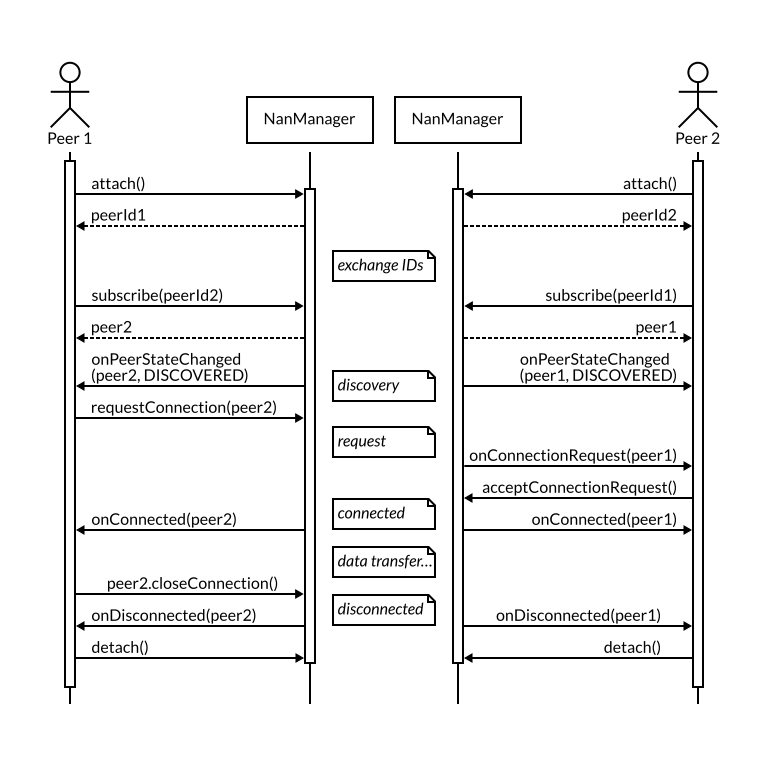
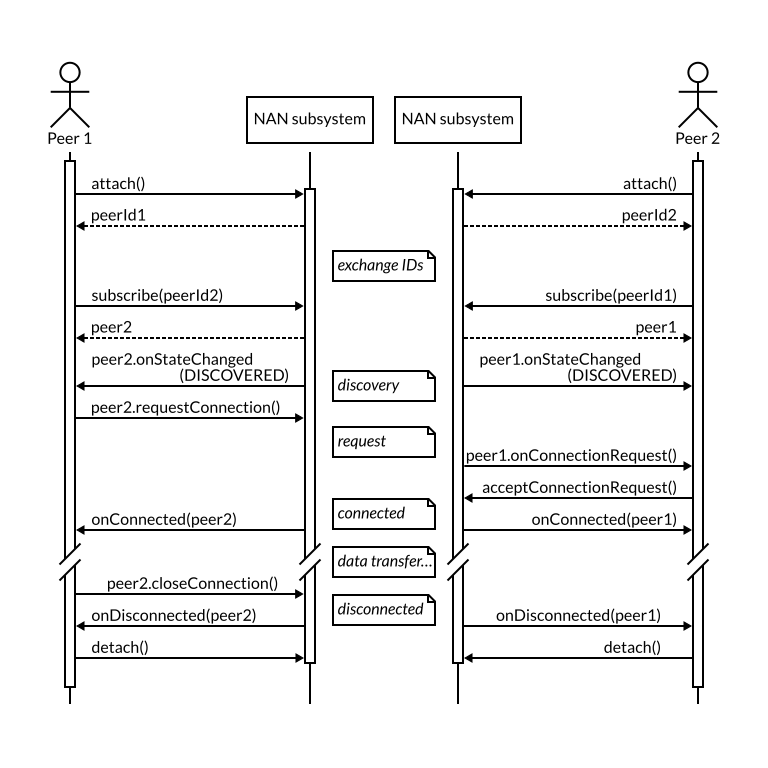
Small changes to the proposed API

diff --git a/README.md b/README.md
@@ -4,26 +4,26 @@
 
 ##### Table of Contents  
 
-* [Summary](#summary)
-* [Introduction to Neighbour Awareness Networking](#introduction-to-neighbour-awareness-networking)
-* [Use cases](#use-cases)
-* [Privacy and security](#privacy-and-security)
-* [Proposed solution](#proposed-solution)
-* [Implementation notes](#implementation-notes)
+1. [Summary](#summary)
+2. [Introduction to Neighbour Awareness Networking](#introduction-to-neighbour-awareness-networking)
+3. [Use cases](#use-cases)
+4. [Privacy and security](#privacy-and-security)
+5. [Proposed solution](#proposed-solution)
+6. [Implementation notes](#implementation-notes)
 
 ## Summary
 
-[Neighbour Awareness Networking](#introduction-to-neighbour-awareness-networking) ("NAN" from here on), also known as Wi-Fi Aware, is an official Wi-Fi specification that enables mobile devices to discover and connect directly to each other without requiring any other type of connectivity between them.
+Neighbour Awareness Networking ("NAN" from here on) (see [section 2](#introduction-to-neighbour-awareness-networking)), also known as Wi-Fi Aware, is an official Wi-Fi specification that enables mobile devices to discover and connect directly to each other without requiring any other type of connectivity between them.
 
-Making this functionality available to websites would enable them to create fast and convenient connections between users who are physically close, opening up [new ways of approaching the creation of Web solutions](#use-cases).
+Making this functionality available to websites would enable them to create fast and convenient connections between users who are physically close, opening up new ways of approaching the creation of Web solutions (see [section 3](#use-cases)).
 
-However, this can not be done lightly: a careless use of this technology would pose severe [threats to privacy and security](#privacy-and-security).
+However, this can not be done lightly: a careless use of this technology would pose severe threats to privacy and security (see [section 4](#privacy-and-security)).
 
-This document presents a draft proposal for [a JavaScript API for NAN](#proposed-solution) that balances usefulness and user safety. It achieves this by changing the conceptual model from that of the underlaying network technology: instead of discovering and being discovered by every other node nearby, Web applications would register their interest in individual user sessions and will only be able to discover and connect to those.
+This document presents a draft proposal for a JavaScript API for NAN (see [section 5](#proposed-solution) that balances usefulness and user safety. It achieves this by changing the conceptual model from that of the underlaying network technology: instead of discovering and being discovered by every other node nearby, Web applications would register their interest in individual user sessions and will only be able to discover and connect to those.
 
 The goal of this Web API is to make it easy to discover and connect to people who have allowed you to do so, and only to them.
 
-This document also discusses [an example protocol at the network level](#implementation-notes): this protocol is intentionally kept simple, as its main purpose is to show the feasibility of implementing the proposed Web API.
+This document also discusses an example protocol at the network level (see [section 6](#implementation-notes)): this protocol is intentionally kept simple, as its main purpose is to show the feasibility of implementing the proposed Web API.
 
 ## Introduction to Neighbour Awareness Networking
 
@@ -143,7 +143,7 @@ Another aspect that is not currently covered by this proposal is peer authentica
 
 The read-only property `Navigator.nan` returns an object of type `NanManager` that is the main contact point with the NAN subsystem.
 
-The user of the API must being by invoking the `attach()` method which, if successful, will return the identifier for the current session.
+The user of the API must being by invoking the `attach()` method which, if successful, will return the `sessionId` for the current session. Invoking the `attach()` method may trigger a permission request dialog, display an ongoing notification, etc.
 
 ```javascript
 navigator.nan.attach()
@@ -156,30 +156,26 @@ navigator.nan.attach()
   });
 ```
 
-Invoking the `attach()` method may trigger a permission request dialog, display an ongoing notification, etc.
+In order to discover and connect to each other, peers must exchange their `sessionId`. This proposal doesn't mandate a particular mechanism to do so.
 
-Once NAN is started and we have received the `sessionId` of the other user(s), we can subscribe to discovery events:
+Once the user has received the `sessionId` of the other peer, it can invoke `NanManager.subscribe()` to obtain a `NanPeer` object representing the peer and providing updates on its state. The user can also get a list of the subscribed peers by calling `NanManager.getPeers()`.
 
 ```javascript
-navigator.nan.ondiscovered = function(peer) {
-  // called when a peer has been discovered
-});
+peer = navigator.nan.subscribe(peerId);
 
-navigator.nan.subscribe(peerId);
+peer.onStateChanged = function(state) {
+  // called when the peer's state changes
+});
 ```
 
-A discovery event will return a `NanPeer` object encapsulating the information and state of a single peer.
-
-The user can also get a list of the known peers by calling `NanManager.getPeers()`.
-
-The `NanPeer` object can be used to request a connection:
+The `NanPeer` object may be used to request a connection to that peer:
 
 ```javascript
-navigator.nan.onconnected = function(peer) {
+navigator.nan.onConnected = function(peer) {
   // called when a connection has been established
 });
 
-navigator.nan.ondisconnected = function(peer) {
+navigator.nan.onDisconnected = function(peer) {
   // called when a connection has been interrupted
 });
 
@@ -195,15 +191,21 @@ peer.requestConnection().then(
 Upon receiving a connection request, the other peer will be prompted to accept or reject it:
 
 ```javascript
-navigator.nan.onconnectionrequest = function(peer) {
+peer.onConnectionRequest = function() {
   // call acceptConnectionRequest() here with isAccepted=true to
   // accept the connection, or with isAccepted=false to reject it
 
-  navigator.nan.acceptConnectionRequest(peer, isAccepted)
+  peer.acceptConnectionRequest(isAccepted)
 });
 ```
 
-After a connection has been established, `peer.baseUrl` will contain the base address of the peer, which may then be used to exchange data (the exact mechanism is outside the scope of this proposal).
+When the connection is established, both peers will receive the event `NanManager.onConnected()`.
+
+At that point, `peer.baseUrl` will contain the base address of the peer, which may then be used to exchange data (e.g. using WebRTC, although the exact mechanism is outside the scope of this proposal).
+
+If the user wishes to end the connection, it may do so by invoking `peer.closeConnection()`. When the connection ends, both peers will receive the event `NanManager.onDisconnected()`.
+
+Finally, the user may call `NanManager.detach()` to stop announcements, close all ongoing connections, and detach from the NAN subsystem.
 
 ### Sequence Diagram
 
@@ -218,9 +220,6 @@ Interface `NanManager`:
 + `subscribe(peerId)`: adds the peer identified by the given ID to the list of subscribed peers; returns the new `NanPeer` object
 + `unsubscribe(peerId)`: removes the peer
 + `getPeers()`: returns the collection of subscribed peers
-+ `onPeerStateChanged(peer)`: handler for when a peer's state has been updated
-+ `onConnectionRequest(peer)`: handler for when a peer has requested a connection
-+ `acceptConnectionRequest(peer, isAccepted)`: indicates that a pending connection request should be accepted
 + `onConnected(peer)`
 + `onDisconnected(peer)`
 
@@ -232,9 +231,11 @@ Interface `PeerId`:
 Interface `NanPeer`:
 
 + `state`: read-only property containing the peer's current state (gone, discovered, connecting, connected…)
-+ `baseUrl
-+ `onStateChanged()`: handler for when the state changes
-+ `requestConnection()`
++ `baseUrl`: read-only property containing the peer's address, if a connection has been established
++ `onStateChanged()`: handler for when the peer's state changes
++ `requestConnection()`: requests a connection to the peer
++ `onConnectionRequest()`: handler for when a peer requests a connection
++ `acceptConnectionRequest(isAccepted)`: indicates that a pending connection request should be accepted
 + `closeConnection()`
 + `unsuscribe()`: remove this peer from the list of subscribed peers
 
